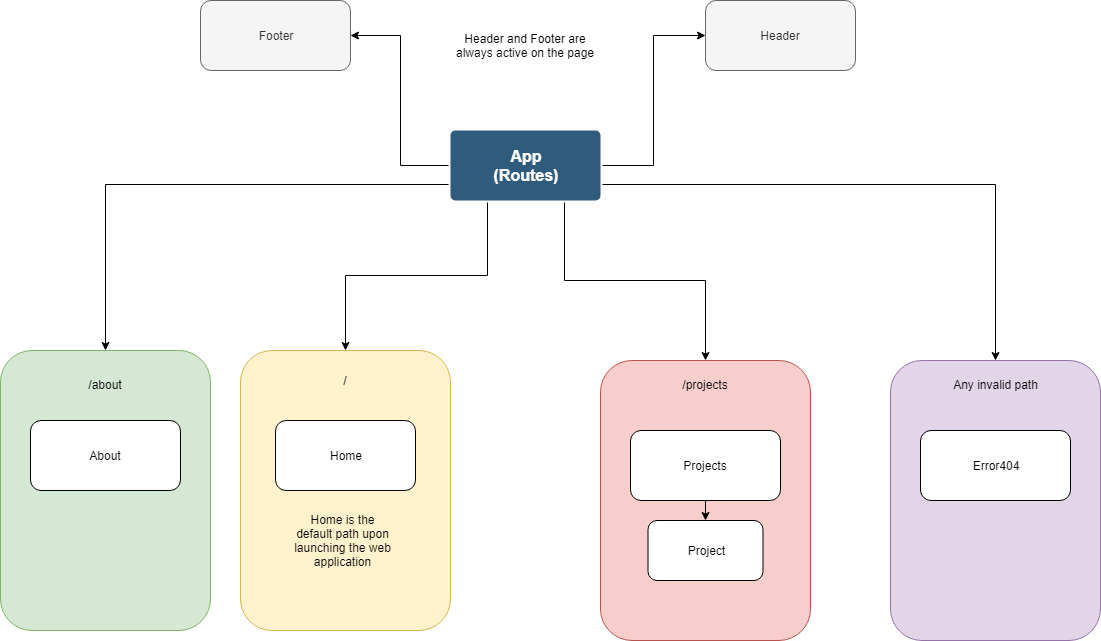
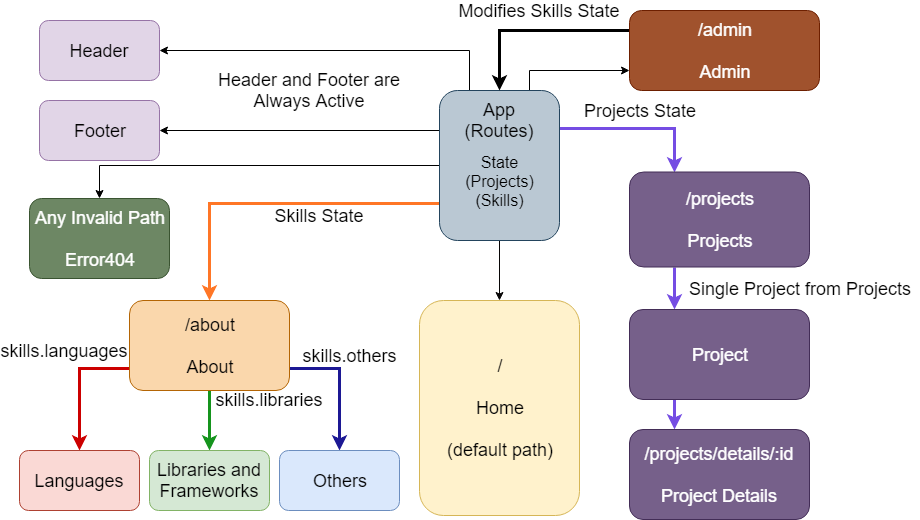
Edited Readme to include new updated gifs.

diff --git a/src/components/Error404.jsx b/src/components/Error404.jsx
@@ -3,7 +3,6 @@ import PropTypes from 'prop-types';
 import { Link } from 'react-router-dom';
 
 export default function Error404(props){
-  console.log(props);
   return (
     <div id="errorDiv">
       <style jsx>{`

diff --git a/README.md b/README.md
@@ -6,14 +6,17 @@
 
 ## Description
 
-_This web application is designed as a portfolio for myself, Alex Williams. It contains routes for pages such as Projects, and About me. It showcases some of my projects that I currently have on github, and my skills as a web developer._
+_This web application is designed as a portfolio for myself, Alex Williams. It contains routes for pages such as Projects, Project, Project Details, Admin and About me. It showcases some of my projects that I currently have on github, and my skills as a web developer._
 
 ## Component Structure
 ![Component Structure](src/assets/images/PortfolioComponentFlowchart.png)
 
 The main component structure consists of App, Home, About, Footer, Header, Project, Projects, and Error404.
 
+## Admin Page
+Admin page has functionality to add new Skills to the About Me page.
 
+![](https://i.gyazo.com/02ee09e8c2a212eb015f238caceb2d42.gif)
 ## About Page 
 About page has small paragraph about myself, and a list of related skills contained in cards.
 
@@ -21,9 +24,9 @@ About page has small paragraph about myself, and a list of related skills contai
 
 
 ## Projects Page
-Projects page shows all my major projects that I have completed individually and in a group.
+Projects page shows all my major projects that I have completed individually and in a group. Leads to the details page that has both the github link and hosting link if relevant.
 
-![](https://i.gyazo.com/4ed245ea98600497897e6f9b2ac4a4a8.gif)
+![](https://i.gyazo.com/728d16055f1e37018b00d2af7b615acc.gif)
 ## Setup/Installation Requirements
 
 * _Clone from Github_
@@ -36,7 +39,7 @@ _No live servers required for this project. All client hosting is currently done
 
 ## Known Bugs
 
-_No known bugs_
+_Refreshing on the Projects Detail page creates error. Due to using props in <Link> tag._
 
 ## Support and contact details
 
